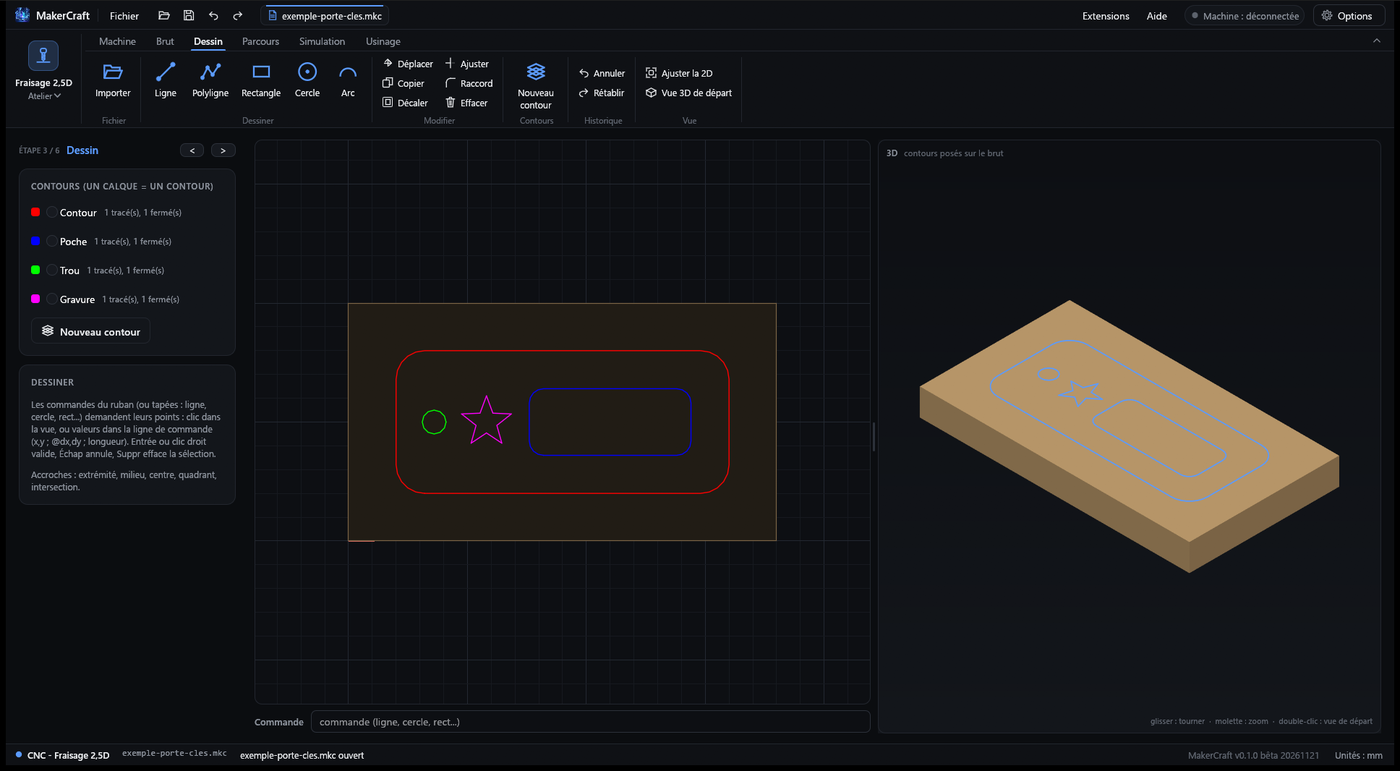
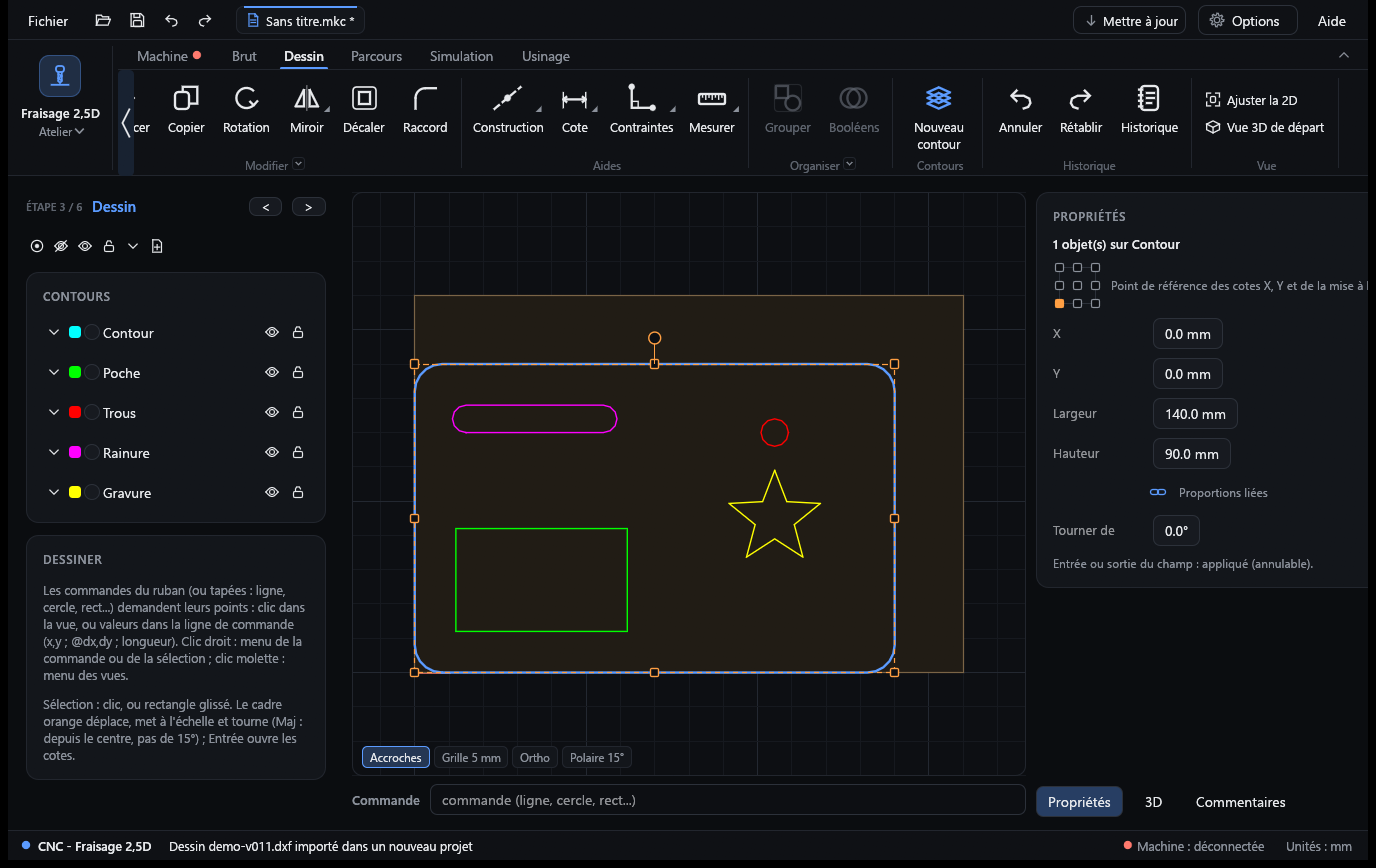
v0.1.1 : capture de l'étape Dessin, problèmes connus

diff --git a/docs/versions/v0.1.1-beta.20261128.md b/docs/versions/v0.1.1-beta.20261128.md
@@ -35,6 +35,12 @@ Décompressez le zip où vous voulez et lancez `makercraft.exe`. L'exécutable n
 - Options : commandes de CadCraft dans la ligne de commande, origine affichée en 2D et en 3D, menu « Extensions » (caché par défaut).
 - Amont : SolidCraft v0.51.2 ; CadCraft reste en v0.20.1.
 
+## Problèmes connus
+
+- Réseau circulaire : à sa création, Propriétés n'affiche pas encore ses paramètres. Cliquer ensuite sur une copie du réseau pour les régler.
+- Quelques invites de CadCraft sont encore en anglais (réseau circulaire, « Undo »).
+- Le panneau Propriétés déborde un peu à droite dans une fenêtre étroite.
+
 ## Donnez votre avis
 
 Dans les [Discussions](https://github.com/FeBeSoft/makercraft/discussions) ou les [issues](https://github.com/FeBeSoft/makercraft/issues/new/choose), ou par courriel : makercraft@fe-be.fr. À essayer en priorité : dessiner une pièce avec les nouvelles commandes, un réseau puis le modifier, des dégagements dogbone sur une poche, puis le G-code.

diff --git a/CHANGELOG.md b/CHANGELOG.md
@@ -118,6 +118,10 @@ v0.51.2; CadCraft stays on v0.20.1 (no newer stable release).*
 - Mises à jour : seule une version plus récente est proposée (une version plus ancienne
   publiée sur GitHub était annoncée comme nouvelle).
 
+### Problèmes connus
+- Réseau circulaire : à sa création, Propriétés n'affiche pas encore ses paramètres.
+- Quelques invites de CadCraft encore en anglais ; panneau Propriétés qui déborde un peu à droite.
+
 ## v0.1.0 bêta 20261121 - 21/11/2026
 
 Première version test publique, pour Windows 10 / 11 (64 bits). Notes complètes :
